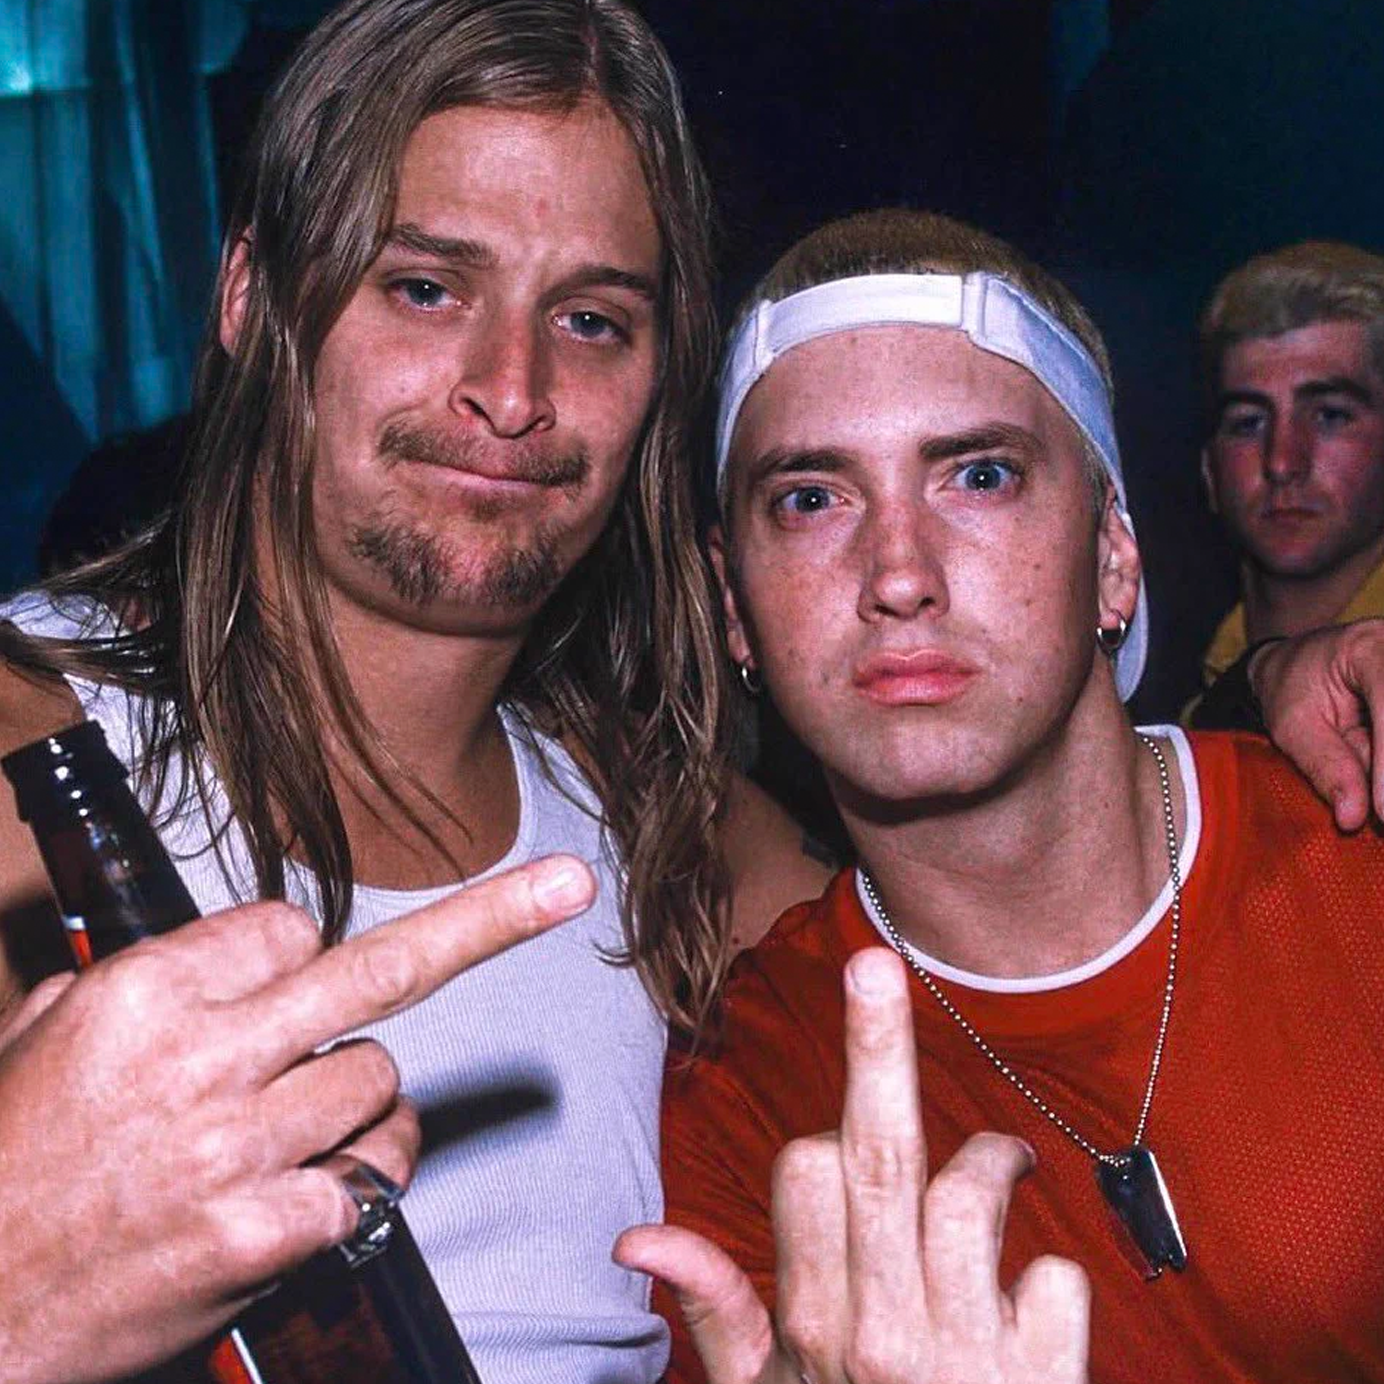
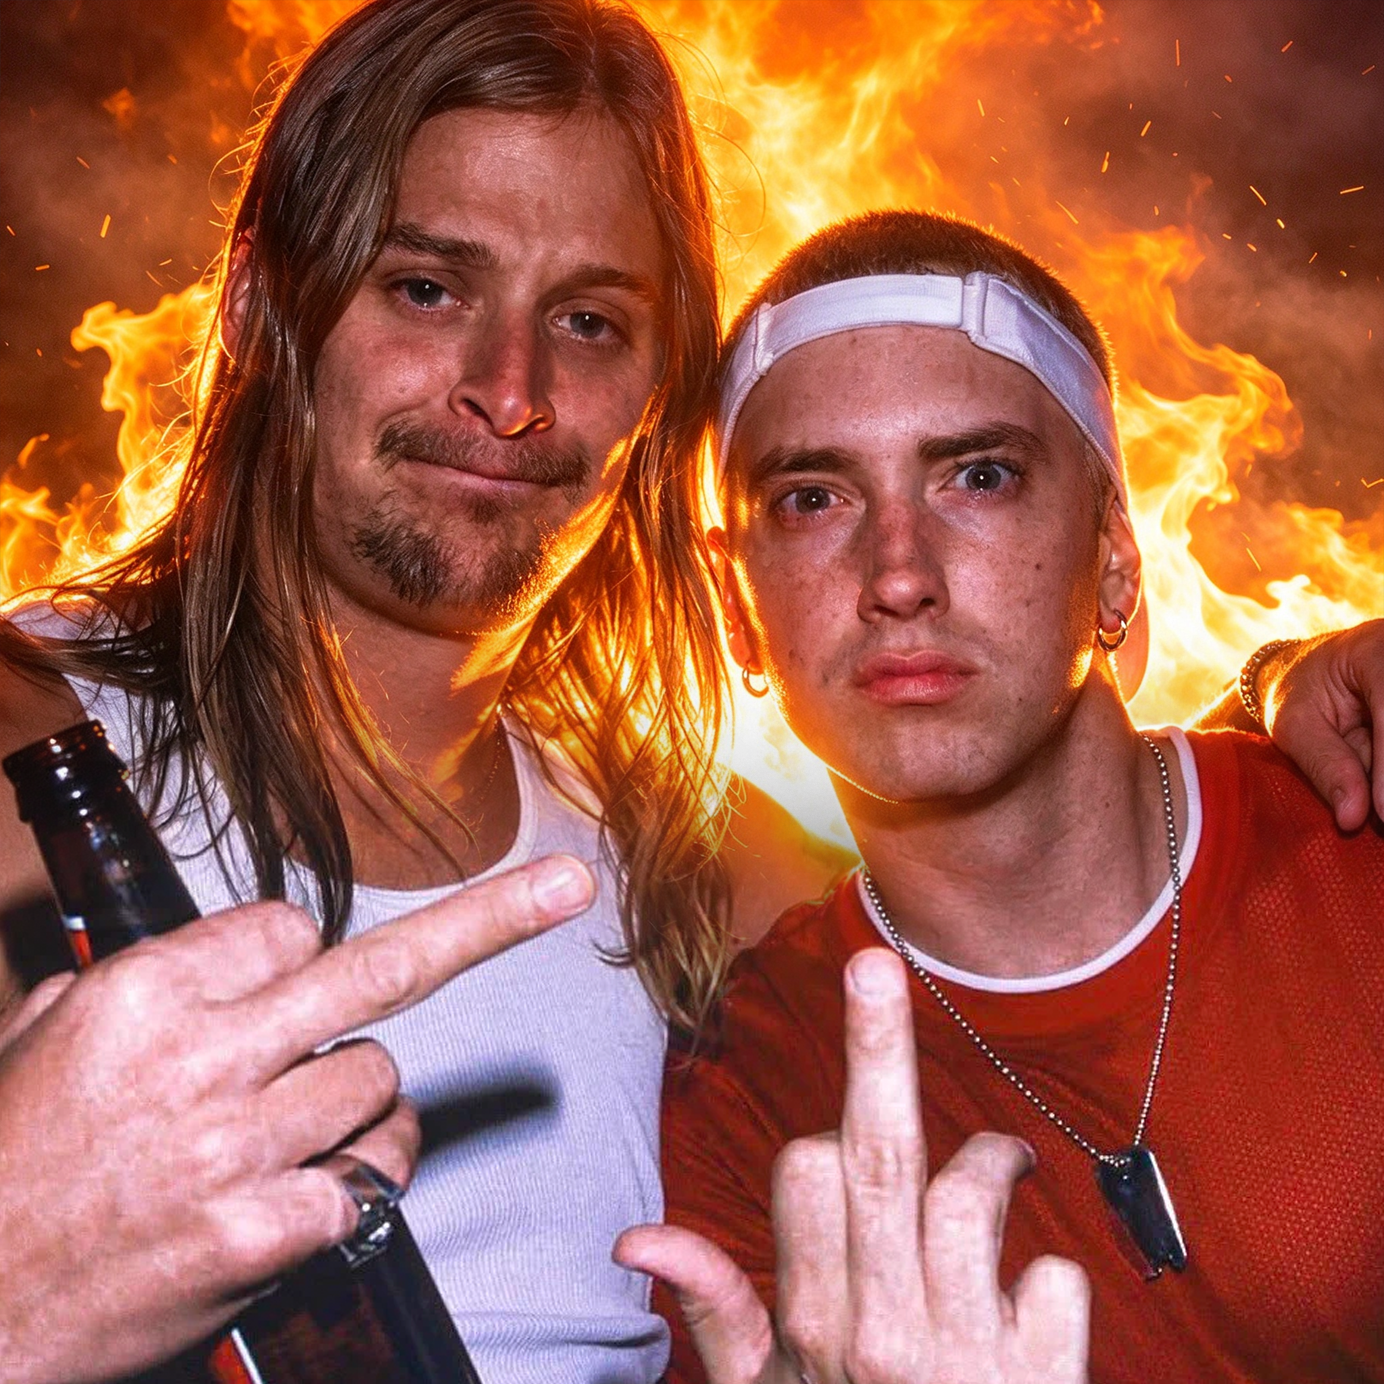
news update

diff --git a/index.html b/index.html
@@ -822,7 +822,7 @@
                             </article>
                             <article class="slide">
                                 <a href="/news/kid-rock-collab-divides-fans.html">
-                                    <img src="images/news-images/kid-rock-collab-2.png" alt="Upcoming Kid Rock Collaboration Divides Fans">
+                                    <img src="images/news-images/kid-rock-collab.png" alt="Upcoming Kid Rock Collaboration Divides Fans">
                                     <p class="slide-title">An Upcoming Kid Rock Collaboration Divides Fans</p>
                                     <p class="slide-subtitle">October 3, 2026</p>
                                 </a>
